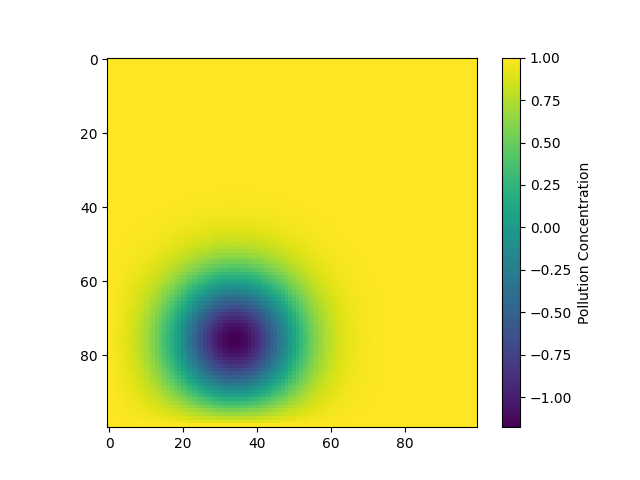
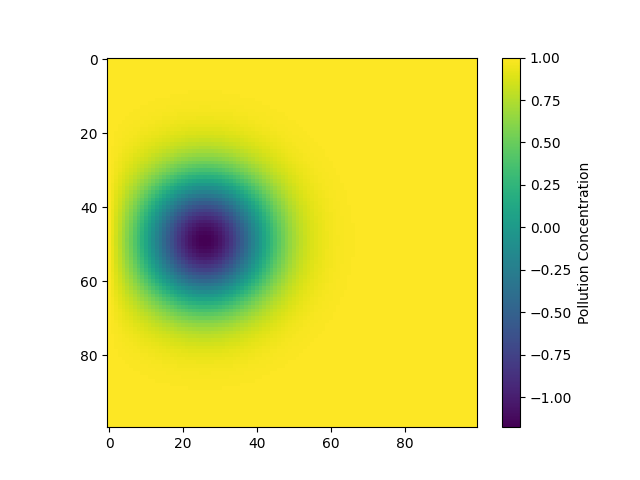
task5

Changed region(s): [[0.1562, 0.25, 0.5625, 0.9062]]

diff --git a/main.py b/main.py
@@ -76,16 +76,6 @@ def coef_competition(m):
         return 1 - K/(E*m)
 
 
-# def diff1(n, t):
-#     n1,n2,n3 = n
-#     w = np.array(water_use_rate(t, "common"))
-#     b = coef_competition(m) 
-#     dn1_dt = n1 * w * ( 1- n1/K - b * (n2+n3)/K )
-#     dn2_dt = n2 * w * ( 1- n2/K - b * (n1+n3)/K )
-#     dn3_dt = n3 * w * ( 1- n3/K - b * (n2+n3)/K )
-#     return np.array([dn1_dt, dn2_dt, dn3_dt])
-
-
 # 我们自己定义的积分函数,用于计算单个物种的生物量变化曲线
 def species_population(n0, t, population_type="common", species_num = 3):
     result =[]
@@ -98,28 +88,17 @@ def species_population(n0, t, population_type="common", species_num = 3):
         temp = n * water_use_rate(i, population_type) * ( 1- n/E - coef_competition(species_num) * (total-n)/E )
         if temp < 0: 
             temp = 0
-        total += n * temp
-        n += n * temp
+        total += temp
+        n += temp
         result.append(n)
         if n >= 0.99*E and flag == False:
             stable_time = i
             flag = True
             # print(n, stable_time)
+
     return np.array(result), stable_time
 
 
-# def pytask1():
-#     N = odeint(diff1, N0, t)  
-#     # N_total = np.sum(N, axis=1)
-#     plt.figure(figsize=(9,6))
-#     plt.plot(t, N[:,0], label="n1(t)")
-#     plt.plot(t, N[:,1], label="n2(t)")
-#     plt.plot(t, N[:,2], label="n3(t)")
-#     # plt.plot(t, N_total, label="n(t)")
-#     plt.xlabel('Time')
-#     plt.ylabel('Population size')
-#     plt.legend(loc='best')
-#     plt.show()
 
 def task1():
     global WEATHER, total
@@ -330,11 +309,12 @@ def task4():
     return
 
 def task5_function(capacity):
-    global K
+    global K, total
+    total = 0
     K = capacity
     
-    t = np.linspace(0, 365, 366)
-    num = 3
+    t = np.linspace(1, 365, 365)
+    num = 10
     plant_type_list = ["wet", "common", "xerophytic"]
     random.shuffle(plant_type_list)
     community = np.zeros(len(t))
@@ -342,8 +322,10 @@ def task5_function(capacity):
     for j in range(num):
         one, time = species_population(N0, t, population_type= plant_type_list[random.randint(0,2)], species_num = num)
         community += one
-    
+  
     return community[-1]
+
+
 
 def task5():
     D = 0.2
@@ -368,7 +350,7 @@ def task5():
         print ("The progress is",i+1,"/100")
         for j in range(100):
             biomass_matrix[i, j] = task5_function(K_matrix[i, j])
-    
+
     C_map = plt.imshow(C, cmap='viridis')
     C_colorbar = plt.colorbar(C_map)
     C_colorbar.set_label('Pollution Concentration')
